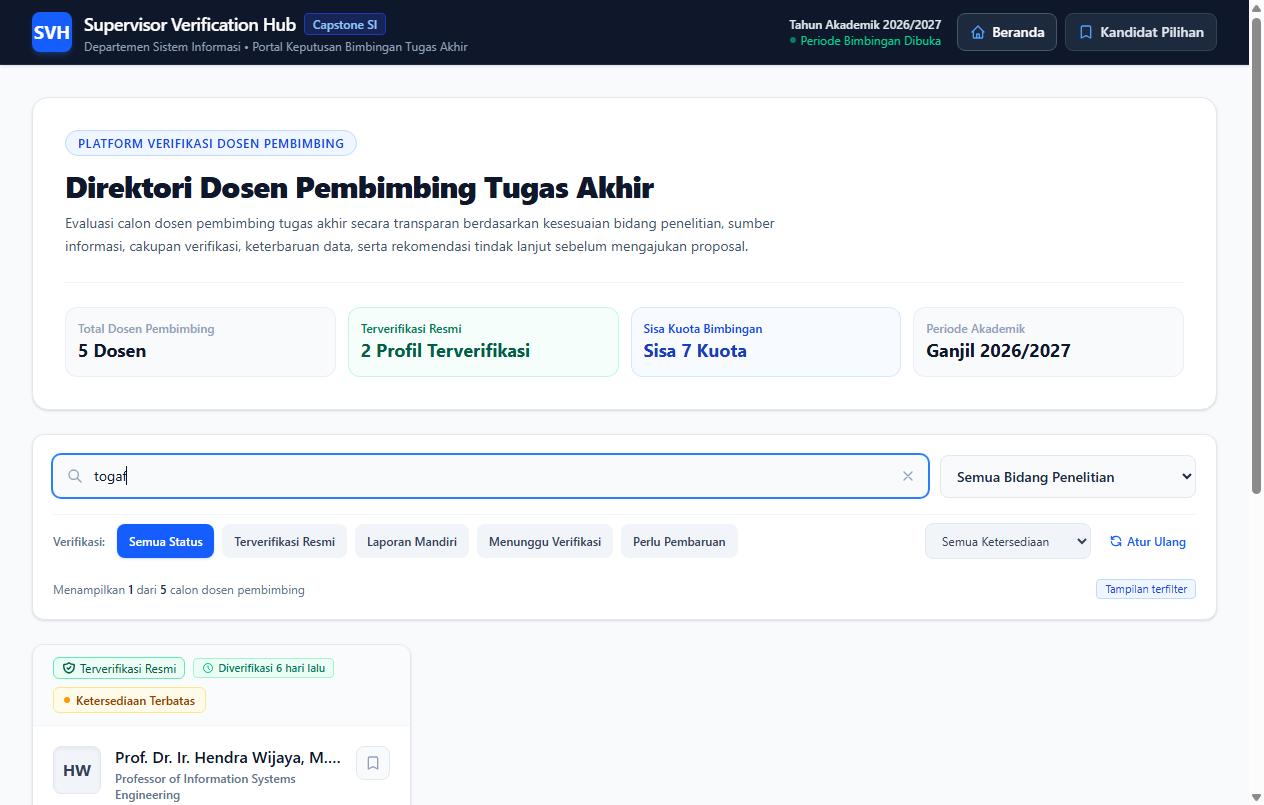
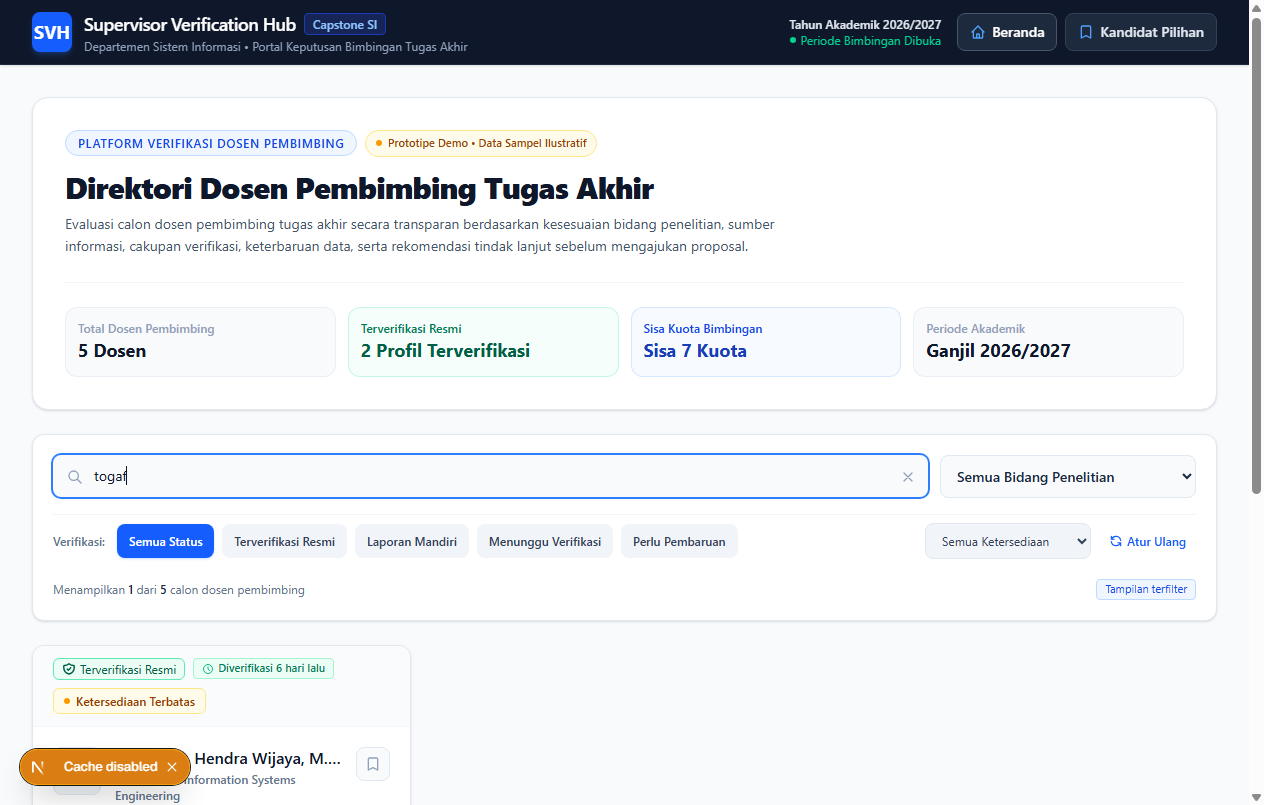
feat: finalize SVH portfolio presentation

diff --git a/src/components/Navbar.tsx b/src/components/Navbar.tsx
@@ -20,12 +20,13 @@ export default function Navbar() {
               <div className="w-10 h-10 rounded-lg bg-blue-600 flex items-center justify-center font-bold text-lg text-white shadow-md shadow-blue-500/20 group-hover:bg-blue-500 transition-colors">
                 SVH
               </div>
-              <div>
+              <div className="min-w-0">
                 <div className="flex items-center space-x-2">
-                  <span className="font-semibold text-base sm:text-lg tracking-tight text-white">
-                    Supervisor Verification Hub
+                  <span className="font-semibold text-sm sm:text-lg tracking-tight text-white whitespace-nowrap">
+                    <span className="sm:hidden">SVH Portal</span>
+                    <span className="hidden sm:inline">Supervisor Verification Hub</span>
                   </span>
-                  <span className="hidden sm:inline-flex items-center px-2 py-0.5 rounded text-xs font-medium bg-blue-950 text-blue-300 border border-blue-800">
+                  <span className="hidden sm:inline-flex items-center px-2 py-0.5 rounded text-xs font-medium bg-blue-950 text-blue-300 border border-blue-800 whitespace-nowrap">
                     Capstone SI
                   </span>
                 </div>
@@ -79,7 +80,10 @@ export default function Navbar() {
                 >
                   <path strokeLinecap="round" strokeLinejoin="round" strokeWidth="2" d="M5 5a2 2 0 012-2h10a2 2 0 012 2v16l-7-3.5L5 21V5z" />
                 </svg>
-                <span>Kandidat Pilihan</span>
+                <span className="whitespace-nowrap">
+                  <span className="sm:hidden">Pilihan</span>
+                  <span className="hidden sm:inline">Kandidat Pilihan</span>
+                </span>
                 {isHydrated && count > 0 && (
                   <span
                     data-testid="navbar-shortlist-count"

diff --git a/src/app/page.tsx b/src/app/page.tsx
@@ -106,8 +106,14 @@ function SupervisorDirectoryContent() {
       {/* Hero / University Context Banner */}
       <div className="bg-white dark:bg-slate-900 border border-slate-200 dark:border-slate-800 rounded-2xl p-6 sm:p-8 shadow-sm">
         <div className="max-w-3xl">
-          <div className="inline-flex items-center space-x-2 px-3 py-1 rounded-full bg-blue-50 dark:bg-blue-950/60 text-blue-700 dark:text-blue-300 text-xs font-semibold uppercase tracking-wider mb-3 border border-blue-200 dark:border-blue-800">
-            <span>Platform Verifikasi Dosen Pembimbing</span>
+          <div className="flex flex-wrap items-center gap-2 mb-3">
+            <div className="inline-flex items-center space-x-2 px-3 py-1 rounded-full bg-blue-50 dark:bg-blue-950/60 text-blue-700 dark:text-blue-300 text-xs font-semibold uppercase tracking-wider border border-blue-200 dark:border-blue-800">
+              <span>Platform Verifikasi Dosen Pembimbing</span>
+            </div>
+            <div className="inline-flex items-center space-x-1.5 px-2.5 py-1 rounded-full bg-amber-50 dark:bg-amber-950/40 text-amber-800 dark:text-amber-300 text-[11px] font-medium border border-amber-200 dark:border-amber-800">
+              <span className="w-1.5 h-1.5 rounded-full bg-amber-500"></span>
+              <span>Prototipe Demo • Data Sampel Ilustratif</span>
+            </div>
           </div>
           <h1 className="text-2xl sm:text-3xl font-extrabold text-slate-900 dark:text-white tracking-tight">
             Direktori Dosen Pembimbing Tugas Akhir

diff --git a/README.md b/README.md
@@ -1,118 +1,138 @@
 # Supervisor Verification Hub (SVH)
 
-> **Information Systems Capstone Project (Q3.04 Foundation)**  
-> Department of Information Systems • Academic Advising Transparency Portal
+**Supervisor Verification Hub (SVH)** is a web-based decision-support prototype designed for undergraduate Information Systems students who are evaluating, comparing, and preparing to approach potential thesis supervisors.
 
-Supervisor Verification Hub (SVH) is a specialized web platform designed to help undergraduate Information Systems students evaluate potential thesis supervisors before submitting academic proposals. Instead of relying on word-of-mouth or outdated faculty directories, SVH provides transparent, structured decision support across verification status, verification scope, information sources, freshness, advising availability, shortlisting, side-by-side comparison, and action execution.
+Instead of relying on informal word-of-mouth or static faculty listings, SVH organizes supervisor profiles around transparent verification indicators, advising availability, research methodology alignment, personal shortlisting, side-by-side comparison, and structured outreach preparation—all in an Indonesian-language student interface.
 
-> **Complete Documentation & Visual Evidence:** See [`docs/README.md`](./docs/README.md) for the full capstone documentation package (Project Overview, Features, User Flow, Technical Architecture, Data & Transparency, Testing & QA, and 18 live application screenshots in `docs/evidence/screenshots/`).
->
-> **Note:** Supervisor profiles, verification records, and quotas in this prototype use an illustrative sample dataset (`src/data/mockSupervisors.ts`) rather than live institutional SIAKAD data.
+> **Demo Notice:** All supervisor profiles, institutional reference codes, verification statuses, and advising quotas in this prototype are **illustrative sample data** (`src/data/mockSupervisors.ts`). SVH is a standalone front-end prototype and does **not** connect to SIAKAD or any live university database.
 
 ---
 
-## 🌟 Six Core Evaluation Dimensions
+## Problem
 
-1. **Research Fit & Expertise**:
-   - Primary research fields (e.g., Enterprise Architecture, Business Intelligence, HCI/UX, FinTech, Information Security).
-   - Past thesis topic themes and recommended methodology frameworks (e.g., TOGAF, COBIT 2019, CRISP-DM, UCD, ISO 27001).
-2. **Verification Status**:
-   - `Officially Verified`: Directly audited and ratified through faculty senate / central academic records.
-   - `Self-Reported`: Directly provided by lecturer via intake questionnaire; pending senate audit.
-   - `Pending Review`: Verification update submitted; under department review for quota or roadmap adjustments.
-   - `Stale / Needs Update`: Information older than active semester policy (e.g., faculty on sabbatical).
-3. **Verification Scope**:
-   - Detailed checklist of audited dimensions: *Active Research Topics*, *Advising Capacity & Quotas*, *Prerequisites & Guidelines*, and *Lab Affiliation*.
-4. **Information Sources & Audit Traceability**:
-   - Transparent citations: Academic Advising Portal (SIAKAD), Faculty Senate Decrees, SINTA/Scopus Indexes, and Direct Faculty Verification Interviews.
-5. **Information Freshness**:
-   - Explicit timestamps and relative freshness ratings (*Fresh < 7 days*, *Moderate < 60 days*, *Stale > 6 months*).
-6. **Recommended Next Actions**:
-   - Actionable step-by-step guidance for students (e.g., drafting a 1-page pre-proposal, portfolio submission, scheduling specific office consultation hours, or selecting a co-supervisor).
+Students preparing for their undergraduate thesis commonly face several practical hurdles when choosing a supervisor:
+
+- **Uncertain availability:** It is difficult to know which faculty members still have open advising capacity, have limited slots, or are on academic leave before investing time in a proposal.
+- **Fragmented evaluation criteria:** Research focus areas, preferred methodologies (e.g., TOGAF ADM, CRISP-DM, ISO 9241-210, ISO/IEC 27001), prerequisites, and office hours are rarely presented in one structured view.
+- **Difficulty comparing candidates:** Evaluating trade-offs across multiple promising supervisors—such as verified vs. self-reported data or open vs. limited capacity—is cumbersome without a side-by-side view.
+- **Unstructured outreach preparation:** Students often lack clear guidance on whether to send an inquiry email, prepare a pre-proposal draft, attend office consultation hours, or explore a co-supervisor arrangement.
 
 ---
 
-## 🛠 Tech Stack
+## Solution
 
-- **Framework**: [Next.js](https://nextjs.org/) (App Router, React 19)
-- **Language**: [TypeScript](https://www.typescriptlang.org/) (Strict typing)
-- **Styling**: [Tailwind CSS](https://tailwindcss.com/)
-- **Version Control**: Git
-- **Deployment**: Vercel-ready (zero external database / serverless static optimization)
+SVH supports a structured, non-linear decision workflow:
+
+**Beranda (Search & Filter) → Profil Dosen → Kandidat Pilihan (Shortlist) → Perbandingan (Compare) → Evaluasi (Status & Notes) → Pusat Tindak Lanjut (Action Hub)**
+
+Students can freely explore faculty profiles, save promising candidates to a persistent browser shortlist, compare 2–3 shortlisted supervisors side-by-side with rule-based **Fakta** vs. **Saran** guidance (with zero fabricated match scores or automated rankings), record personal decision statuses and notes, and launch tailored outreach or consultation preparation tools.
 
 ---
 
-## 🚀 Getting Started
+## Key Features
 
-### Prerequisites
-- Node.js (v18 or higher recommended)
-- npm or pnpm
+- **Direktori Dosen Pembimbing (`/`):** Overview KPIs and scannable faculty cards showing verification status, freshness, availability, research fields, verification scope snapshot, and recommended next action.
+- **Live Search & Multi-Dimensional Filtering:** Instant client-side search across names, titles, research fields, thesis topics, bios, and methodologies, combined with verification status pills, research field filter, availability filter, and one-click reset.
+- **Profil Verifikasi Dosen (`/supervisors/[id]`):** Complete breakdown of verification scope (`X dari Y Terkonfirmasi`), source citations, freshness timestamps, research fit, thesis focus examples, methodologies, and advising quota capacity.
+- **Kandidat Pilihan / Shortlist (`/shortlist`):** Add or remove supervisors from any card or detail page, synced with a live navbar counter badge and persisted in `localStorage`.
+- **Perbandingan Berdampingan (`/compare`):** Compare 2–3 shortlisted supervisors side-by-side with a sticky criteria column on desktop/tablet and stacked criterion-aligned cards on mobile.
+- **Status & Catatan Pertimbangan:** Assign personal decision statuses (`Dipertimbangkan`, `Kandidat Prioritas`, `Sudah Dihubungi`, `Pertemuan Terjadwal`, `Tidak Dilanjutkan`) and save private decision notes per candidate, synced across `/shortlist` and `/compare`.
+- **Panduan Pengambilan Keputusan (Rule-Based):** Transparent, deterministic insights distinguishing **Fakta** (availability contrast, verification differences, exact shared fields/methodologies) from **Saran** (actionable considerations with explicit **"Alasan:"** rationales).
+- **Pusat Tindak Lanjut (Action Execution Hub):** Adaptive workflows per supervisor—formal Indonesian pre-proposal/email draft generator, office consultation preparation planner, co-supervisor pathway guide, sabbatical alternative discovery, and interactive prerequisite self-assessment checklist.
 
-### Installation & Local Run
+---
+
+## Screenshots (Indonesian UI)
+
+| Beranda & Direktori | Profil Verifikasi Dosen |
+| :---: | :---: |
+| ![Beranda](./docs/evidence/screenshots/id/01-beranda-dashboard.png) | ![Detail Dosen](./docs/evidence/screenshots/id/03-detail-dosen.png) |
+
+| Kandidat Pilihan (Shortlist) | Perbandingan 2 Dosen |
+| :---: | :---: |
+| ![Kandidat Pilihan](./docs/evidence/screenshots/id/07-kandidat-pilihan.png) | ![Perbandingan](./docs/evidence/screenshots/id/08-perbandingan-2-dosen.png) |
+
+| Panduan Pengambilan Keputusan | Pusat Tindak Lanjut (Draf Email) |
+| :---: | :---: |
+| ![Panduan Keputusan](./docs/evidence/screenshots/id/10-panduan-keputusan.png) | ![Draf Email](./docs/evidence/screenshots/id/05-draf-email-pengajuan.png) |
+
+| Pengalaman Mobile (375px) |
+| :---: |
+| ![Mobile Beranda](./docs/evidence/screenshots/id/11-mobile-beranda.png) |
+
+> Full documentation and additional desktop/mobile evidence are available in [`docs/README.md`](./docs/README.md).
+
+---
+
+## Technical Stack
+
+- **Framework:** Next.js `16.4.6` (App Router)
+- **UI Library:** React `19.3.0`
+- **Language:** TypeScript `^5`
+- **Styling:** Tailwind CSS `4.3.3`
+- **Linting:** ESLint `^9` (`eslint-config-next@16.4.6`)
+
+---
+
+## Architecture
+
+- **Routes:** `/` (Directory), `/supervisors/[id]` (Profile & Action Hub + `not-found.tsx`), `/shortlist` (Shortlist & Selection), `/compare` (Dynamic `?ids=...` Side-by-Side Comparison).
+- **Shared State & Persistence:** `ShortlistProvider` (`src/context/ShortlistContext.tsx`) mounted in `src/app/layout.tsx` uses React 19's `useSyncExternalStore` to sync `svh-shortlist`, `svh-decision-statuses`, and `svh-decision-notes` with `localStorage` safely (hydration-safe, cross-tab synced, resilient to malformed JSON).
+- **Decision Engine:** Pure, deterministic rule-based logic in `src/lib/decisionGuidance.ts` with zero external AI calls or fabricated scores.
+- **Full Technical Docs:** See [`docs/technical-architecture.md`](./docs/technical-architecture.md).
+
+---
+
+## Testing & QA
+
+- **Full System QA (Live Headless Chrome CDP against production `npm start`):** **38 / 38 PASS** across Dashboard, Search, Filtering, all 5 Detail Pages + 404, all 5 Action Hub workflows, Shortlist, Comparison, Decision Support, Persistence, Responsive (`1280px`, `768px`, `375px`), and Technical health (0 runtime exceptions, 0 hydration errors, 0 console errors, 0 failed network requests).
+- **Static Analysis:** `npm run lint` (0 errors, 0 warnings) and `npx tsc --noEmit` (0 errors).
+- **Production Build & Runtime Verification:** `npm run build` (`next build --webpack`) and `npm start` verified cleanly.
+- **Detailed QA Report:** See [`docs/testing-and-qa.md`](./docs/testing-and-qa.md).
+
+---
+
+## Limitations
+
+- **Illustrative Mock Dataset:** Profiles, verification codes, and quotas in `src/data/mockSupervisors.ts` are sample demonstration data, not live institutional records.
+- **No Institutional Integration / Backend:** SVH does not connect to SIAKAD, university APIs, or a database.
+- **Browser-Local Storage Only:** Shortlist selections, decision statuses, and personal notes are stored locally in the user's browser and do not sync across devices.
+- **No Automated Verification or Email Dispatch:** Prerequisite checks are self-assessments (no transcript validation), and email drafts copy to clipboard or open `mailto:` in the user's own email client.
+
+---
+
+## Running Locally
 
 ```bash
-# Clone the repository (or navigate to project directory)
-cd supervisor-verification-hub
-
-# Install dependencies (already completed in scratch setup)
+# 1. Install dependencies
 npm install
 
-# Start development server
+# 2. Run development server (http://localhost:3000)
 npm run dev
-```
 
-Visit [http://localhost:3000](http://localhost:3000) in your browser.
+# 3. Validate lint and TypeScript
+npm run lint
+npx tsc --noEmit
 
-### Production Build & Verification
-
-```bash
-# Run production build
+# 4. Build and run production server
 npm run build
-
-# Start production server
 npm start
 ```
 
 ---
 
-## 📁 Project Structure
+## Deployment Readiness (Vercel)
 
-```
-supervisor-verification-hub/
-├── src/
-│   ├── app/
-│   │   ├── layout.tsx                # University-styled root layout (academic nav & footer)
-│   │   ├── page.tsx                  # Supervisor directory with live search & multidimensional filters
-│   │   ├── globals.css               # Academic styling & color system
-│   │   └── supervisors/
-│   │       └── [id]/
-│   │           ├── page.tsx          # Comprehensive Supervisor Profile & Verification Details page
-│   │           └── not-found.tsx     # Academic 404 state for invalid supervisor IDs
-│   ├── components/
-│   │   ├── Navbar.tsx                # University branding & intake status header
-│   │   ├── SupervisorCard.tsx        # Directory card displaying core fit, status badge & preview
-│   │   ├── SearchAndFilterBar.tsx    # Live search (name/field) & verification status filter pills
-│   │   ├── VerificationBadge.tsx     # Color-coded verification status badges with icons
-│   │   ├── AvailabilityBadge.tsx     # Quota capacity and student availability pill
-│   │   ├── FreshnessBadge.tsx        # Relative data freshness indicator
-│   │   └── SupervisorDetailView.tsx  # Detailed profile breakdown (scope, sources, actions, fit)
-│   ├── data/
-│   │   └── mockSupervisors.ts        # 5 realistic Information Systems thesis supervisors
-│   └── types/
-│       └── supervisor.ts             # Strict TypeScript types for domain entities
-├── public/                           # Static assets
-├── package.json
-├── tsconfig.json
-└── README.md
-```
+SVH is ready for standard Next.js deployment on **Vercel**:
+
+- **Framework Preset:** Next.js (auto-detected)
+- **Build Command:** `npm run build`
+- **Output Directory:** `.next`
+- **Environment Variables Required:** **None** (zero API keys, database URLs, or secrets required)
 
 ---
 
-## 🚢 Deploying to Vercel
+## Project Status
 
-This repository is optimized for one-click deployment on [Vercel](https://vercel.com):
-1. Push this repository to GitHub / GitLab / Bitbucket.
-2. In Vercel, click **"Add New Project"** and import the repository.
-3. Build Command: `npm run build`
-4. Output Directory: `.next`
-5. Click **Deploy**.
+**Functional Prototype — Portfolio & Demonstration Ready.**  
+Developed as an Information Systems capstone prototype (`Q3.04`) with verified production build, full Indonesian UI localization, automated browser QA, and complete documentation in [`docs/`](./docs/README.md).
